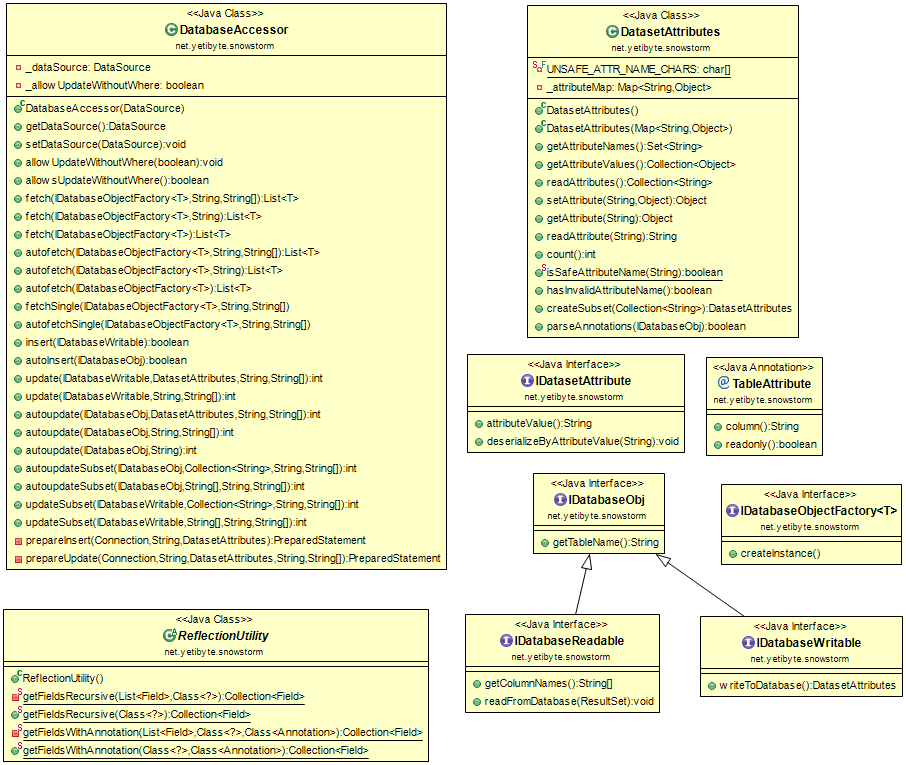
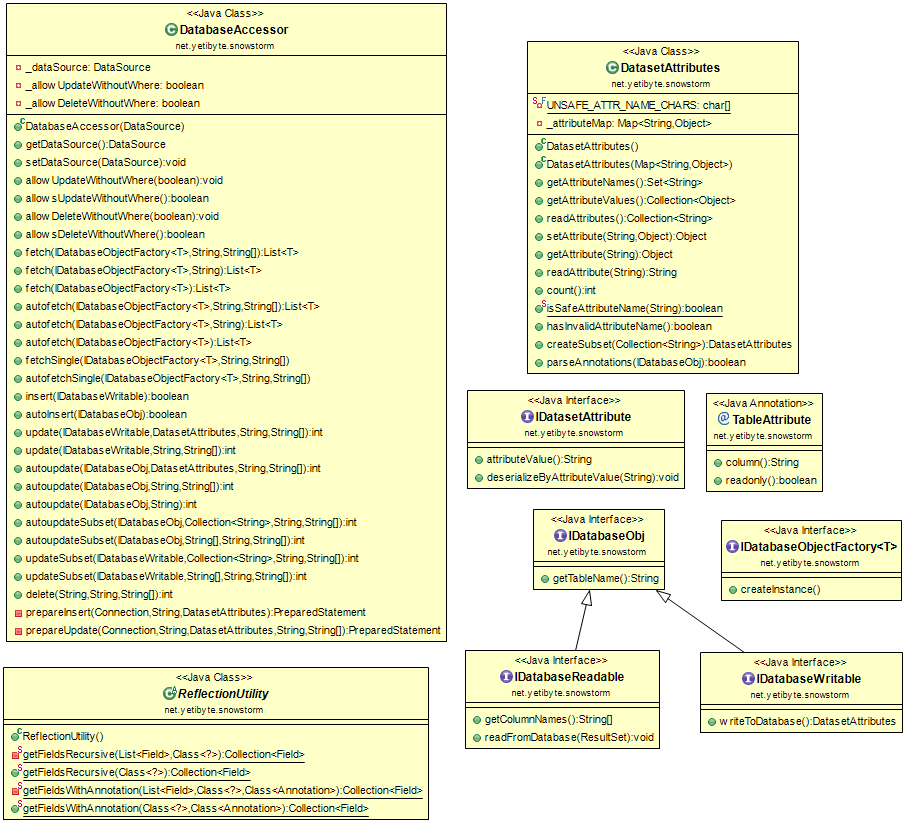
added support for deleting records.

Changed region(s): [[0.0, 0.0, 0.9272, 1.0], [0.7726, 0.7516, 1.0, 0.932], [0.8035, 0.6314, 1.0, 0.7516]]

diff --git a/snowstORM/src/net/yetibyte/snowstorm/DatabaseAccessor.java b/snowstORM/src/net/yetibyte/snowstorm/DatabaseAccessor.java
@@ -22,6 +22,7 @@ public class DatabaseAccessor {
 	private DataSource _dataSource = null;
 	
 	private boolean _allowUpdateWithoutWhere = true;
+	private boolean _allowDeleteWithoutWhere = false;
 	
 	// Constructors
 	
@@ -46,13 +47,19 @@ public class DatabaseAccessor {
 	}
 	
 	public void allowUpdateWithoutWhere(boolean flag) {
-		
 		_allowUpdateWithoutWhere = flag;
-		
 	}
 	
 	public boolean allowsUpdateWithoutWhere() {
 		return _allowUpdateWithoutWhere;
+	}
+	
+	public void allowDeleteWithoutWhere(boolean flag) {
+		_allowDeleteWithoutWhere = flag;
+	}
+	
+	public boolean allowsDeleteWithoutWhere() {
+		return _allowDeleteWithoutWhere;
 	}
 	
 	// Methods
@@ -607,6 +614,58 @@ public class DatabaseAccessor {
 		}
 		
 		return -1;
+		
+	}
+	
+	public int delete(String tableName, String whereClause, String[] whereParams) {
+		
+		boolean allowDelete = _allowDeleteWithoutWhere || whereClause != null;
+		
+		if(!allowDelete || _dataSource == null || tableName == null)
+			return -1;
+		
+		Connection connection = null;
+		
+		int rowsAffected = 0;
+		
+		try {
+			
+			connection = _dataSource.getConnection();
+			
+			String sql = "DELETE FROM " + tableName + (whereClause != null ? (" WHERE " + whereClause) : "");
+			
+		    PreparedStatement statement = connection.prepareStatement(sql);
+		    
+		    if(statement == null)
+		    	return -1;
+		    
+		    if(whereClause != null && whereParams != null) {
+				
+				for(int j = 0; j < whereParams.length; j++)
+					statement.setString(j+1, whereParams[j]);
+				
+			}
+		    
+		    rowsAffected = statement.executeUpdate();
+		    
+		}
+	    catch(Exception e) {
+	    	
+	    	return -1;
+	    	
+	    }
+	    finally {
+	    	
+	    	if(connection != null) {
+	    		
+	    		try { connection.close(); }
+	    		catch(Exception e) { }
+	    		
+	    	}
+	    	
+	    }
+		
+		return rowsAffected;
 		
 	}
 	
